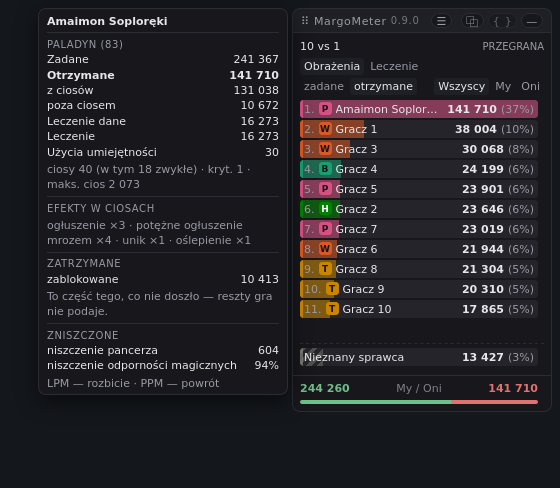
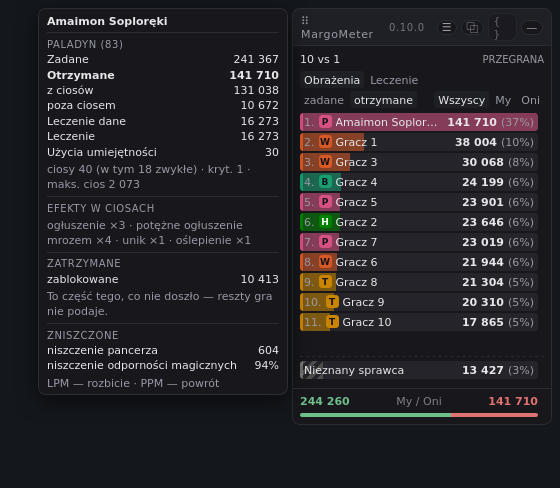
build(release): 0.10.0, the release that remembers which fight you were reading
`[Niewydane]` becomes `## [0.10.0] — 2026-08-28` and `package.json` follows. Minor
rather than patch: the section carries four **Nowość**, and coming back to the
fight you were on after a reload, a fight that says where it was fought, and a `☰`
that closes again are behaviour that was not there. 39 commits since `v0.9.0`.

**The section was checked for completeness by measurement, not by reading the
thirty-nine subjects**, which is `238fbee`'s method and the one that found eight
missing entries at `3749e0e`. Three readings, all against `v0.9.0`:

Every text literal in `src/` at the tag against the same here, taken with
`getTextRangesFromSource` rather than by grep: 681 distinct at the tag, 708 now —
33 added, 6 gone. Every player-visible one lands on an entry. `Pokaż albo schowaj
zapisane walki`, which replaces `Walki, które są jeszcze zapisane`, on the `☰`
entry; `bandażowanie`, `potężne ogłuszenie mrozem` and the three spellings of
`stun2-c` on the three-effects entry; `zatrucie` on the entry that moves the word;
`header-place`, `header-line`, `row-size`, `place`, `mapName` and the coordinate
template on the entry about where a fight was fought; `margometer.shown-fight` on
the reload entry. The rest are ours — the `@/…` specifiers, `main.min`/`version:`
now that `game-build.ts` walks for a build id, and the stylesheet, which is one
literal and grew from 22 063 to 23 610 characters. The 6 gone are the three
[…]

Changed region(s): [[0.5161, 0.0307, 0.9714, 0.6762], [0.5161, 0.707, 0.9714, 0.8607], [0.7893, 0.0307, 0.85, 0.0922]]

diff --git a/CHANGELOG.md b/CHANGELOG.md
@@ -34,7 +34,7 @@ Wszystkie istotne zmiany w tym dodatku są tu notowane.
 > w każdej chwili. Do czasu `1.0.0` czytaj wpisy oznaczone **Zmiana** przed
 > aktualizacją.
 
-## [Niewydane]
+## [0.10.0] — 2026-08-28
 
 - **Nowość** — Po odświeżeniu strony panel wraca do walki, którą miałeś na
   ekranie, zamiast napisu, że walki jeszcze nie było; jeśli żadnej nie wybierałeś,
@@ -69,6 +69,10 @@ Wszystkie istotne zmiany w tym dodatku są tu notowane.
   całą twoją drużynę jest liczone tak samo jak zwykle. Panel przestaje je liczyć
   tylko wtedy, kiedy osłabienie poszło w twoją stronę — i mówi to przy wierszu
   osoby, która leczyła.
+
+- **Poprawka** — Wybór `Trzymaj: tylko teraz` naprawdę nie zostawia już niczego
+  po sobie. Panel przestał pamiętać, którą walkę miałeś otwartą — po odświeżeniu
+  strony wita cię tak, jakby żadnej nie było, bo żadnej nie ma.
 
 ## [0.9.0] — 2026-08-26
 
